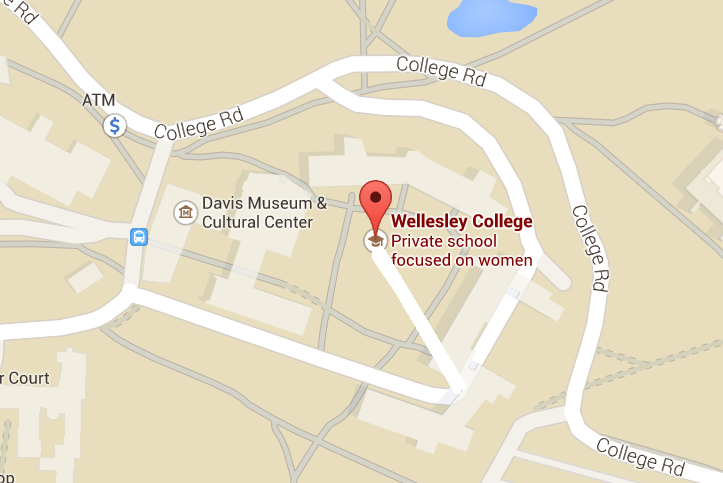
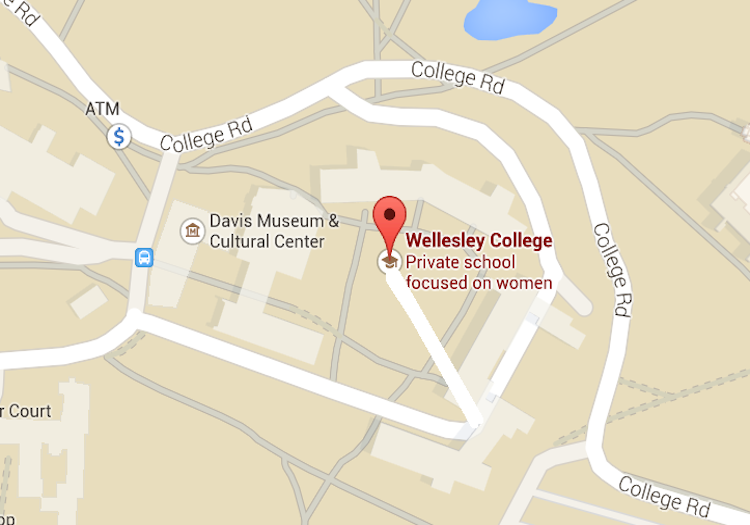
map changes

diff --git a/main.py b/main.py
@@ -78,7 +78,7 @@ def main():
     pygame.init()
 
     # config the screen
-    screen_size = (723, 483)
+    screen_size = (750, 525)
     screen = pygame.display.set_mode(screen_size)
     white = (255, 255, 255)
     screen.fill(white)
